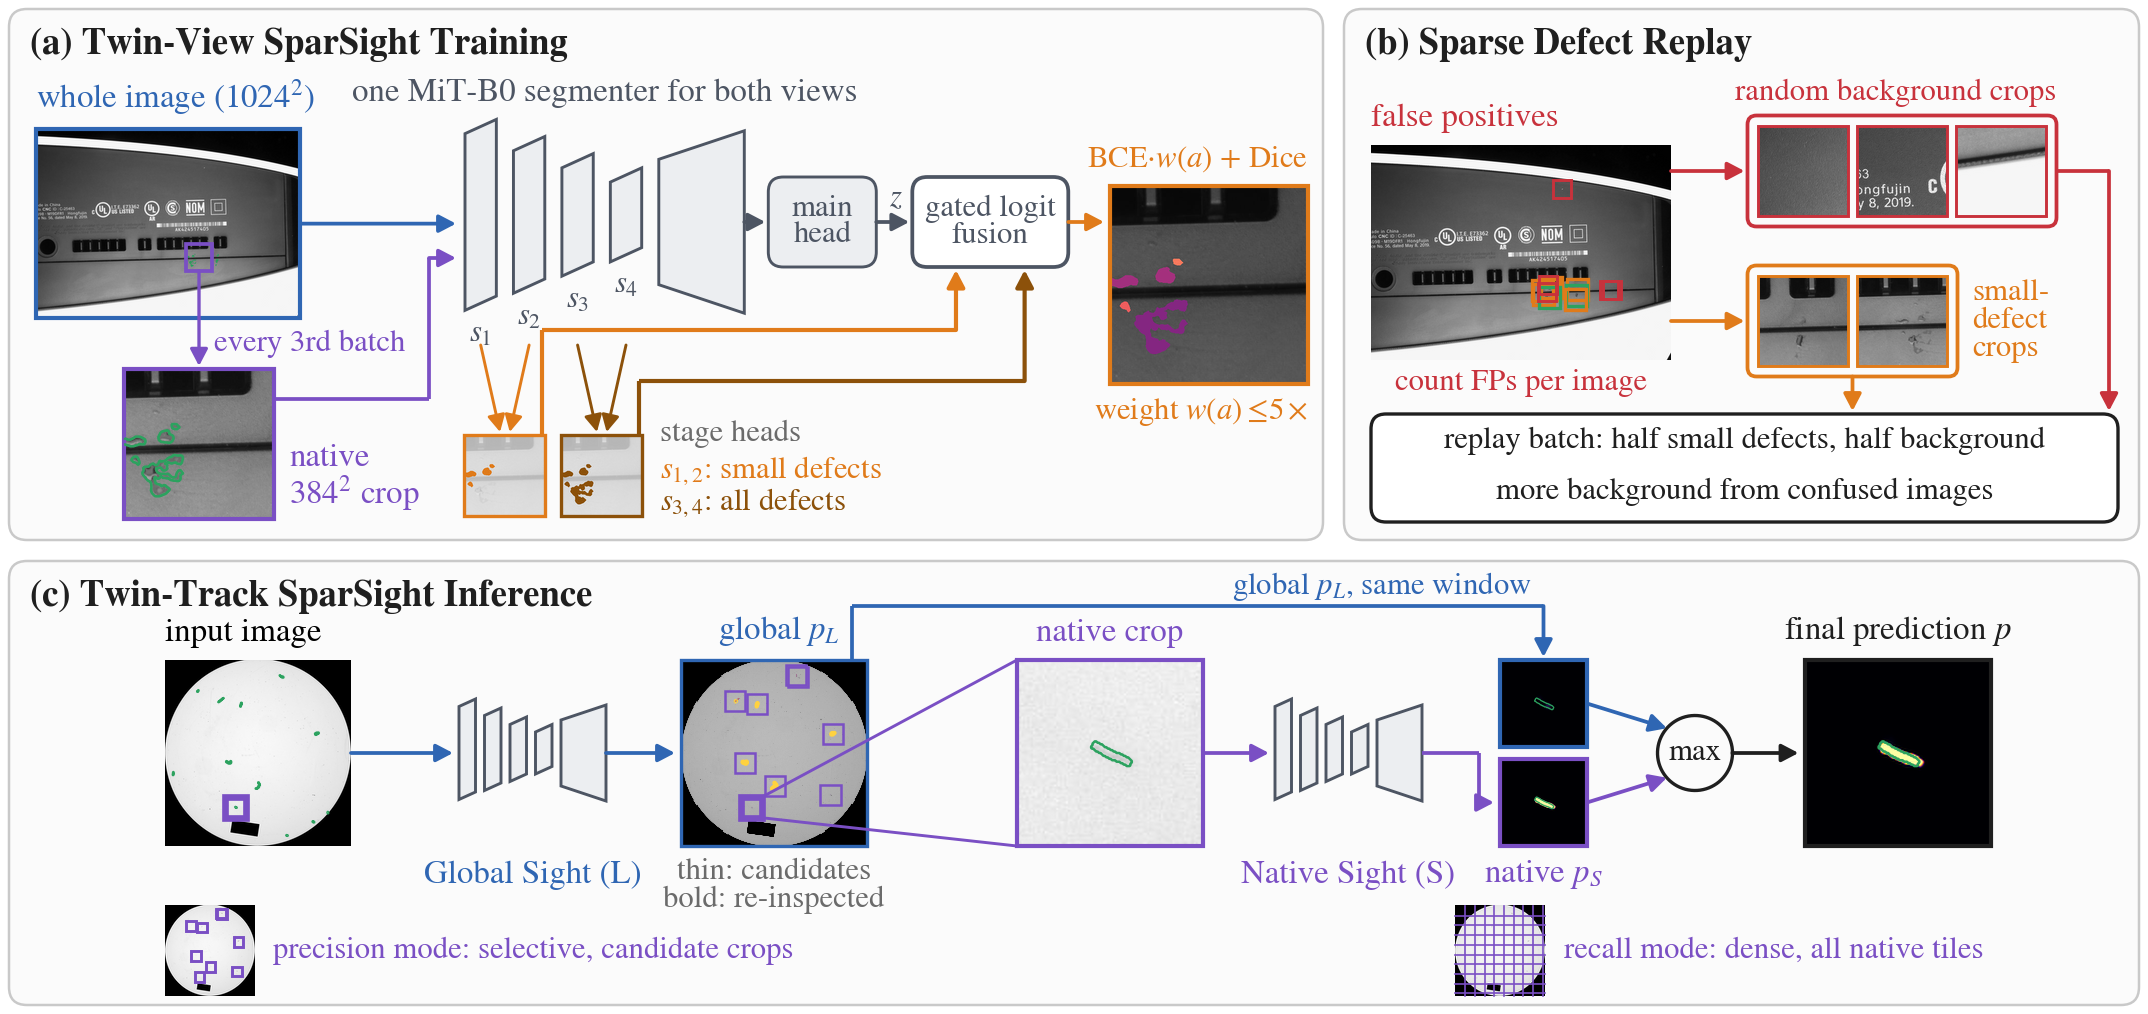
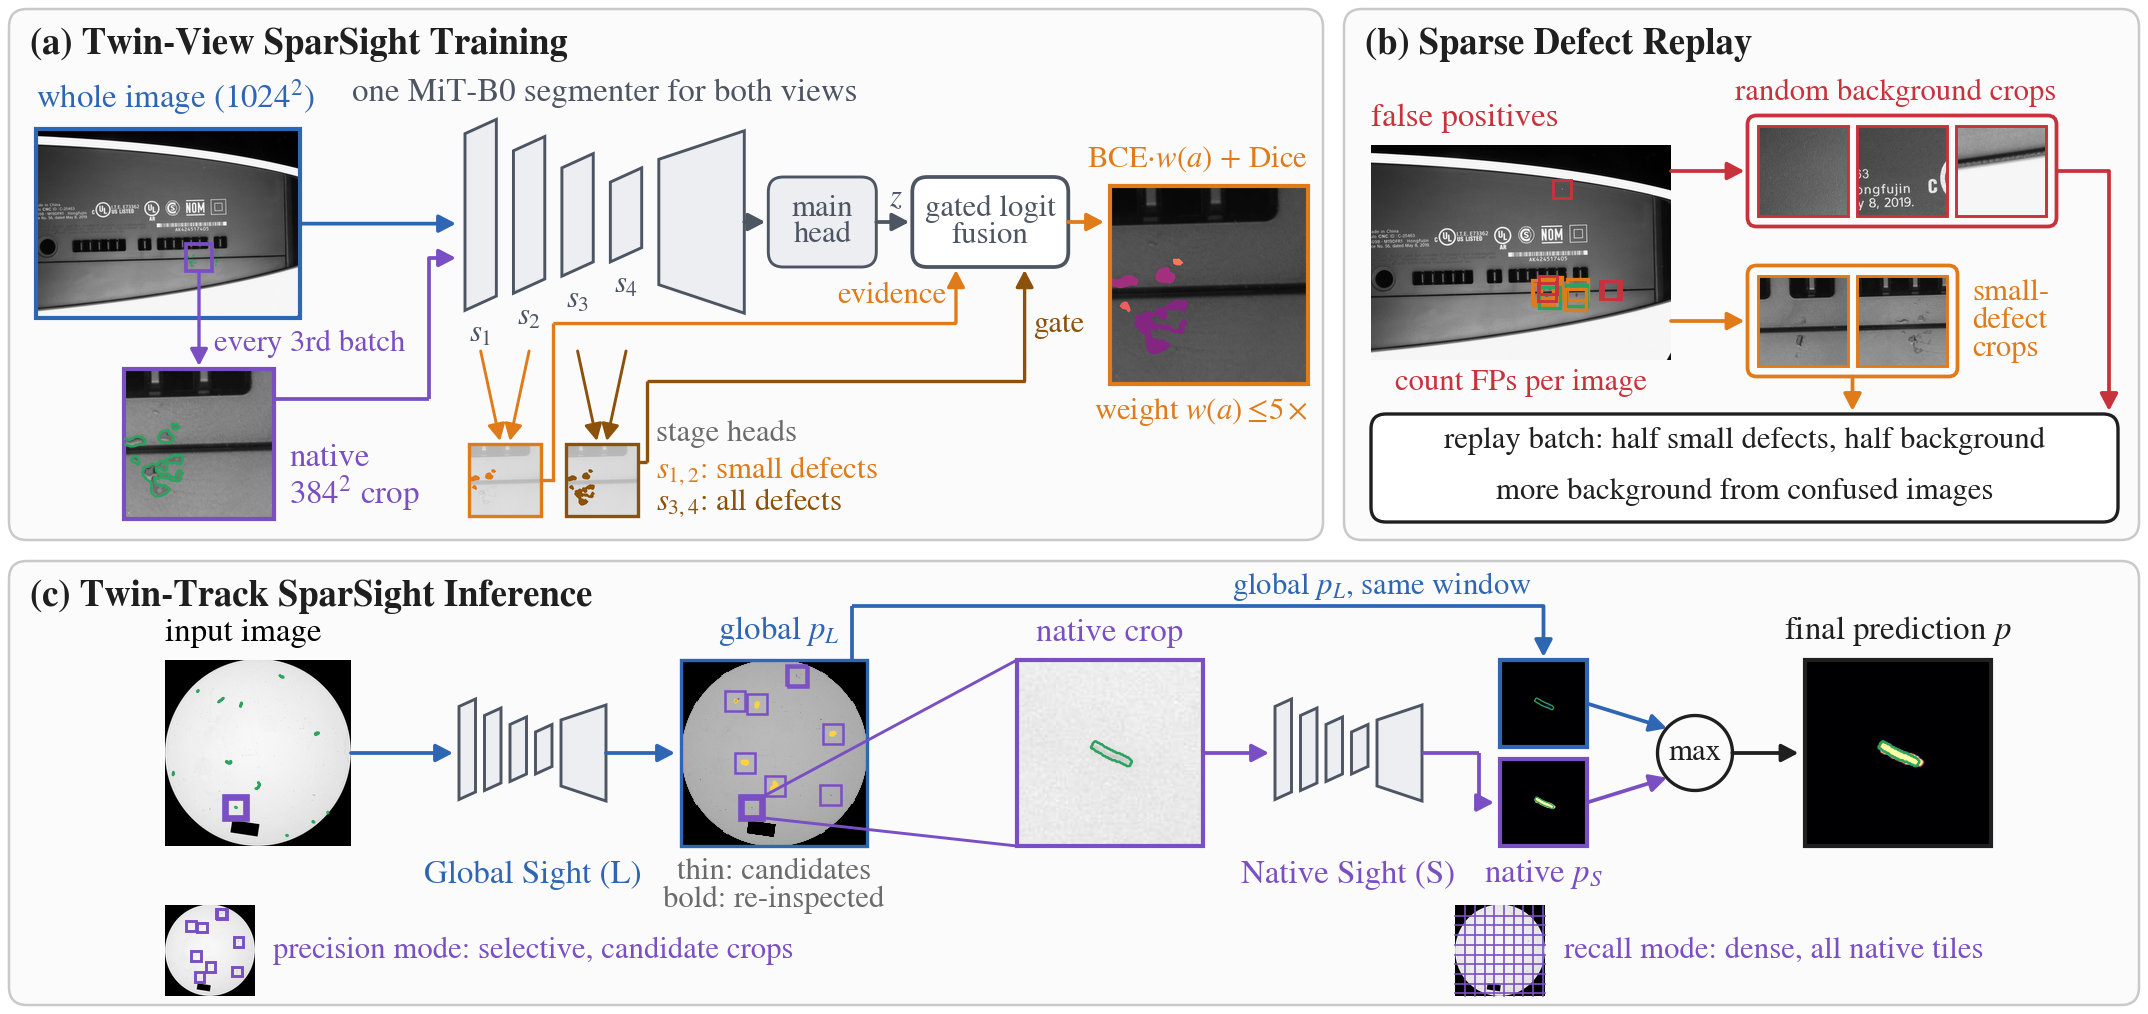
Fig. 1 script and overview figure as in the paper

Changed region(s): [[0.1872, 0.2751, 0.4367, 0.5197], [0.4679, 0.3057, 0.4991, 0.3363]]

diff --git a/tools/figures/fig1_framework.py b/tools/figures/fig1_framework.py
@@ -203,7 +203,7 @@ def draw(out_dir):
     # stage heads (training only), right under the encoder stages: s1, s2 -> small-defect targets, s3, s4 -> all
     sy, st = 1.98, 0.34
     sxs = [nx + 0.17 * 0.95 * i + 0.055 * 0.95 for i in range(4)]  # stage centres (as drawn by net())
-    tb = 0.27  # thumbnail side; centred under (s1, s2) and (s3, s4); straight arrows converge on each
+    tb = 0.24  # thumbnail side; centred under (s1, s2) and (s3, s4); straight arrows converge on each
     cA, cB = (sxs[0] + sxs[1]) / 2, (sxs[2] + sxs[3]) / 2
     # each thumbnail shows only its own target mask, solid in the frame colour, over a faded crop
     faded = np.repeat((255 - (255 - T["native"].astype(np.float32).mean(2, keepdims=True)) * 0.3), 3, 2)
@@ -221,9 +221,14 @@ def draw(out_dir):
     # s3,4 (brown, gate) -> right port; each line leaves its thumbnail's top-right corner, clear of the stage arrows
     pe, pg = fb_x + fb_w * 0.28, fb_x + fb_w * 0.72
     ye, yg = 2.645, 2.45
-    xa, xb = cA + tb / 2 - 0.01, cB + tb / 2 - 0.01
-    seg(ax, [(xa, sy + 0.02 + tb), (xa, ye), (pe, ye), (pe, ny - 0.16)], c=SIZE, lw=1.0)
-    seg(ax, [(xb, sy + 0.02 + tb), (xb, yg), (pg, yg), (pg, ny - 0.16)], c=ALL, lw=1.0)
+    xa = (cA + tb / 2 + cB - tb / 2) / 2  # middle of the gap between the two thumbnails
+    xb = cB + tb / 2 + 0.03
+    seg(ax, [(xa, sy + 0.02 + tb / 2), (xa, ye), (pe, ye), (pe, ny - 0.16)], c=SIZE, lw=0.8)
+    seg(ax, [(cA + tb / 2, sy + 0.02 + tb / 2), (xa, sy + 0.02 + tb / 2)], c=SIZE, lw=0.8, head=False)
+    seg(ax, [(cB + tb / 2, sy + 0.02 + tb * 0.75), (xb, sy + 0.02 + tb * 0.75), (xb, yg), (pg, yg), (pg, ny - 0.16)],
+        c=ALL, lw=0.8)
+    ax.text(pe - 0.03, (ye + ny - 0.16) / 2, "evidence", fontsize=SMALL, color=SIZE, ha="right", va="center")
+    ax.text(pg + 0.03, (yg + ny - 0.16) / 2, "gate", fontsize=SMALL, color=ALL, ha="left", va="center")
     ax.text(lx, sy + 0.17, "$s_{1,2}$: small defects", fontsize=SMALL, color=SIZE, va="center")
     ax.text(lx, sy + 0.01, "$s_{3,4}$: all defects", fontsize=SMALL, color=ALL, va="bottom")
 
